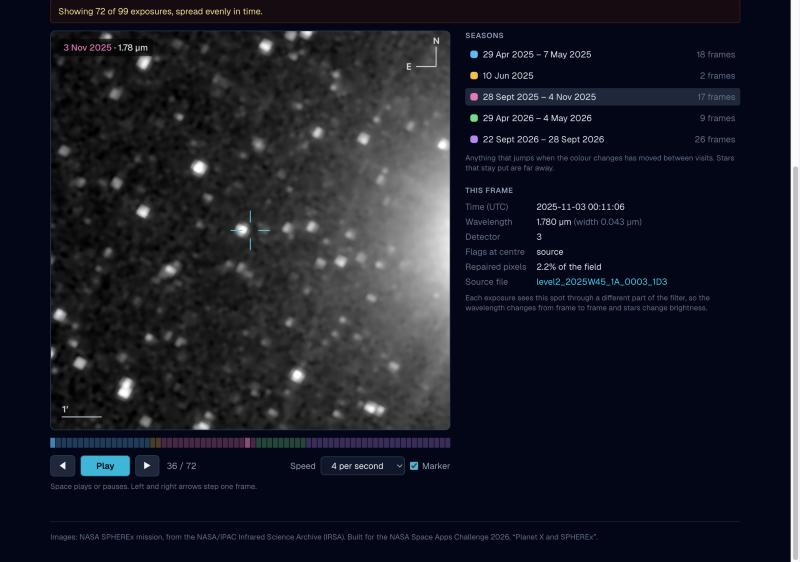
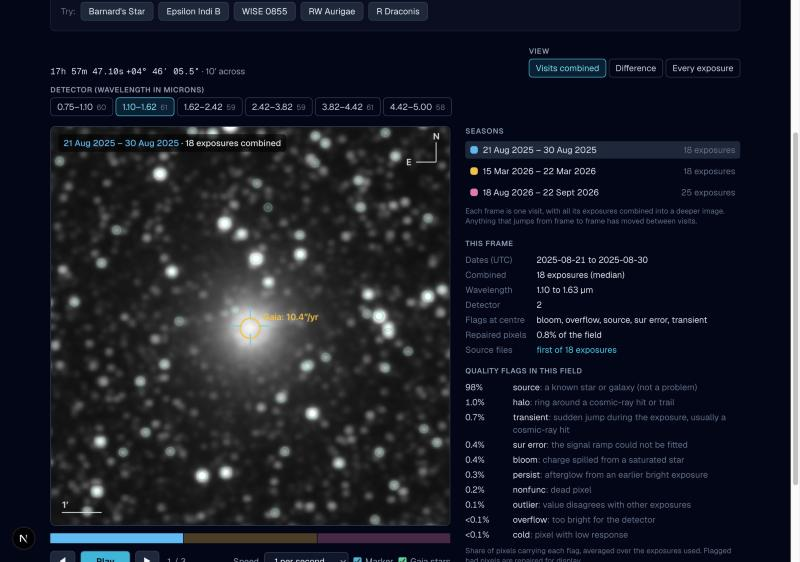
docs: bring submission text, validation notes and screenshot up to date

diff --git a/docs/submission.md b/docs/submission.md
@@ -8,7 +8,7 @@ VERRIER-X
 
 ## High-level project summary
 
-VERRIER-X is a public website that turns NASA's SPHEREx sky survey into short movies. You type a sky position, and it finds every SPHEREx image of that spot, lines them up, and plays them in time order. Stars that are far away stay still; anything nearby that moves, such as a close star, a brown dwarf or an unknown planet in the outer solar system, jumps between visits and catches the eye. SPHEREx re-observes the whole sky about every six months, so it is a new way to look for moving objects in the infrared, but its images are hard to use directly: each one is a large file, rotated differently, taken at a different wavelength. VERRIER-X hides that work so that anyone with a web browser can search for motion.
+VERRIER-X is a public website that turns NASA's SPHEREx sky survey into short movies. You type a sky position or an object name, and it finds every SPHEREx image of that spot, lines them up, and plays them in time order. Stars that are far away stay still; anything nearby that moves, such as a close star, a brown dwarf or an unknown planet in the outer solar system, jumps between visits and catches the eye. SPHEREx re-observes the whole sky about every six months, so it is a new way to look for moving objects in the infrared, but its images are hard to use directly: each one is a large file, rotated differently, taken at a different wavelength. VERRIER-X hides that work so that anyone with a web browser can search for motion.
 
 ## Link to project demo
 
@@ -21,15 +21,20 @@ Code: https://github.com/luvyarana/VERRIER-X
 
 ## Detailed project description
 
-**What it does.** The user enters Right Ascension and Declination (degrees, or hours/degrees with minutes and seconds) and a field of view from 5 to 60 arcminutes. The site shows a movie of all public SPHEREx exposures of that patch from one detector, with play, pause, step and speed controls. Frames are coloured by observing season, so a jump at a colour change means real motion between visits. Each frame is labelled with its date and exact wavelength, and a side panel shows the quality flags at the centre and a link to the original file. The user can switch between the six detectors (0.75 to 5.0 microns). The position, field of view and detector are stored in the page link, so any view can be shared.
+WHAT IT DOES
+The user enters Right Ascension and Declination (degrees, or hours/degrees with minutes and seconds), or simply an object name, and a field of view from 5 to 60 arcminutes. A name is looked up in SIMBAD, and a fast-moving star is shifted from its year-2000 catalogue position to where it is today. The site then shows every public SPHEREx image of that patch in three ways. "Visits combined" merges all exposures from each SPHEREx visit into one deep frame and blinks between visits. "Difference" subtracts the first visit from each later one, so still stars cancel and a moving object appears as a dark spot next to a bright one. "Every exposure" plays each single exposure as a movie, coloured by visit. Known stars from the European Space Agency's Gaia catalogue are circled at the position Gaia gives for the date of each frame, so a moving object with no circle is something Gaia does not know. The user can switch between the six SPHEREx detectors (0.75 to 5.0 microns). Each frame shows its date, wavelength and every quality flag present, explained in plain words, with a link to the original file. The whole view is stored in the page link, so it can be shared.
 
-**How it works.** A Python service (FastAPI, Astropy) asks the IRSA image search which exposures contain the position, across SPHEREx Data Release 1 and Quick Release 3. It then reads only the needed rows of each file from the public SPHEREx mirror on Amazon S3 with byte-range requests, about 1 MB out of each 62 MB file. For each cutout it removes the sky background, repairs unusable pixels using the mission's flag bits, and resamples the image onto one north-up grid. Frames are rendered with a single shared brightness scale and cached. The web page (Next.js, TypeScript) loads the frames and plays them on a canvas with a position marker, scale bar and compass.
+HOW IT WORKS
+A Python service (FastAPI, Astropy) asks the IRSA image search which exposures contain the position, across SPHEREx Data Release 1 and Quick Release 3. It then reads only the needed rows of each file from the public SPHEREx mirror on Amazon S3 with byte-range requests, about 1 MB out of each 62 MB file. For each cutout it removes the sky background, repairs unusable pixels using the mission's flag bits, and resamples the image onto one north-up grid. Exposures from one visit are combined with a median, which removes cosmic-ray hits and lowers the noise. Frames are rendered with one shared brightness scale and cached. The web page (Next.js, TypeScript) plays them on a canvas with a position marker, scale bar, compass and the Gaia circles.
 
-**Testing.** Field stars stay on the same spot to within 0.2 SPHEREx pixels (1.3 arcseconds) across 61 frames. On the challenge's test targets: Barnard's Star moves 9.9 arcseconds north in one year (catalogue: about 10.4); Epsilon Indi B moves about 4.4 arcseconds per year east and south (catalogue: about 4.7); RW Aurigae and R Draconis stay still; WISE 0855 is too faint to detect. Full notes: `docs/demo-script.md` in the repository.
+TESTING
+Field stars stay on the same spot to within 0.2 SPHEREx pixels (1.3 arcseconds) across 61 frames. On the challenge's five test targets: Barnard's Star moves 10.1 arcseconds north in one year (predicted 10.2); Epsilon Indi B moves 6.3 arcseconds east-south-east in 1.4 years (predicted 6.8); RW Aurigae and R Draconis stay still. WISE 0855, the coldest known brown dwarf, is invisible in single exposures, but with visits combined a source appears at its predicted position in the 3.8 to 5.0 micron detectors and shifts about 8 arcseconds west in a year, as predicted. A background star lies 4.6 arcseconds away and the two are blended, so we report this as a probable detection, not a confirmed one. Catalogue values, predictions and the full validation record are in the docs folder of the repository: https://github.com/luvyarana/VERRIER-X
 
-**Limits.** Very bright stars are saturated, so their brightness is not reliable. New positions take one to two minutes on the free host. Stacking, image differencing, spectra and Gaia overlays were planned but not built.
+LIMITS
+Very bright stars are saturated, so their brightness is not reliable. New positions take one to two minutes on the free host, and they depend on NASA's IRSA search being available; the five test targets are stored with the site and always load. In the Difference view, still stars leave small rings. Spectra and shifting frames along a trial motion before combining are not built.
 
-**Tools and languages.** Python, FastAPI, Astropy, reproject, NumPy, SciPy, Pillow; TypeScript, Next.js, React, Tailwind CSS; Render and Vercel for hosting.
+TOOLS AND LANGUAGES
+Python, FastAPI, Astropy, reproject, NumPy, SciPy, Pillow; TypeScript, Next.js, React, Tailwind CSS; Render and Vercel for hosting. Code and documentation were written with Claude Code (an AI coding assistant), directed and reviewed by the team.
 
 ## Use of AI tools
 
@@ -44,10 +49,11 @@ The code, tests and documentation were written with Claude Code (Anthropic's AI 
 
 ## Space agency partner data and other references
 
-- No partner-agency data is used in this version.
+- European Space Agency: Gaia Data Release 3 (star positions and proper motions), https://www.cosmos.esa.int/gaia , read through the GAVO TAP service, https://dc.g-vo.org/tap
+- SIMBAD database and Sesame name resolver, CDS Strasbourg: https://simbad.cds.unistra.fr/simbad/
 - Software: Astropy, reproject, NumPy, SciPy, Pillow, FastAPI, Uvicorn, Next.js, React, Tailwind CSS.
 - Challenge page: https://www.spaceappschallenge.org/2026/challenges/planet-x-and-spherex/
-- **TO DO:** add the catalogue sources used in `docs/targets.md` (SIMBAD, Gaia DR3, AllWISE, AAVSO) once that sheet is filled in.
+- Catalogue sources for the test targets (2MASS, AllWISE, Hipparcos, AAVSO VSX and the papers cited) are listed in `docs/targets.md` §9.
 
 ## Before clicking "Submit for Judging"
 

diff --git a/docs/demo-script.md b/docs/demo-script.md
@@ -10,11 +10,14 @@
 
 ## 0. Recheck and updates (15 November 2026, afternoon)
 
-This record was rechecked after it was written. Three things changed, and they supersede the text below wherever the two disagree.
+This record was rechecked after it was written. Several things changed, and they supersede the text below wherever the two disagree.
 
 1. **Target positions corrected.** Three of the 2026.0 right ascensions in `docs/targets.md` were wrong (Barnard's Star, Epsilon Indi B, R Draconis), and the app's WISE 0855 marker was 31.5″ too far east. The quick-pick buttons and the starter cache now use the corrected positions; details are in `docs/targets.md` §0. All links in this record point to the corrected positions.
 2. **"Visits combined" view added.** The site now opens in a view that combines each visit's exposures into one deeper frame. The measurements below were made on the same kind of per-visit median image.
 3. **WISE 0855 is probably detected.** At the corrected position, combined visits in the 3.82–4.42 µm and 4.42–5.00 µm detectors show a source at the marker at 10–17σ whose peak moves about 8″ west in a year (predicted: 7.9″). It is blended with a fixed background star 4.6″ away, so this is a probable detection, not a clean one. Section 4 below describes the earlier test at the wrong position and is kept only as a record. See `docs/targets.md` §6.3.
+
+4. **More features went live after this record was written:** a Difference view (each later visit minus the first), circles on known Gaia DR3 stars placed for each frame's date, search by object name, and a plain-language list of the quality flags in each frame. In the Difference view Barnard's Star and Epsilon Indi B each show a clear dark-and-bright pair; the Gaia marker for Barnard's Star (10.4″ per year) sits on the star. Defect Report 3 (no caveat about uncalibrated brightness) is partly addressed by the notes beside the image; no calibrated light curve exists.
+5. **NASA's IRSA image search returned errors through the afternoon of 15 November.** While it is down, only the five test targets and other cached positions load; new positions show a message and a retry button.
 
 Offsets re-measured at the corrected positions (east, north of the marker, from per-visit median images):
 
